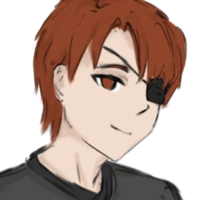
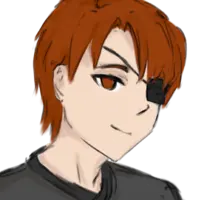
saturation

Changed region(s): [[0.15, 0.0, 0.93, 0.66], [0.51, 0.39, 0.57, 0.45], [0.33, 0.36, 0.36, 0.39]]

diff --git a/script.js b/script.js
@@ -11,10 +11,10 @@ const characters = [
     { imageURL: "images/cara.webp",      name: "Cara",       categories: ["Human", "Female", "Night", "Gang"],           fullName: "Omura Cara", pronunciation: "KA-ruh", rune:"Metamorphosis", quote: "Leave me alone.", runeURL:"images/cara_rune.webp", },
     { imageURL: "images/cassie.webp",    name: "Cassie",     categories: ["Human", "Female", "Night", "Gang"],           fullName: "Cassandra O'Connor", rune:"Tricks & Mirrors" },
     { imageURL: "images/cherry.webp",    name: "Cherry",     categories: ["NonH", "Female", "Night", "LSE"],             fullName: "Cherry Rose</br>❝Frosted Flame❞", species: "Demon (Dream Eater)", ability:"Soporific flames", quote: "So hungry..." },
-    { imageURL: "images/daphne.webp",    name: "Daphne",     categories: ["Human", "Female", "Night", "LSH"],            fullName: "Daphne †", quote: "Miss, you called?" },
+    { imageURL: "images/daphne.webp",    name: "Daphne",     categories: ["Human", "Female", "Night", "LSH", "Pin"],            fullName: "Daphne †", quote: "Miss, you called?" },
     { imageURL: "images/dawn.webp",      name: "Dawn",       categories: ["NonH", "Female", "Night", "LSA"],             fullName: "❝Timeless Embrace❞", species: "Angel" },
     { imageURL: "images/dj.webp",        name: "Dj",         categories: ["Human", "Male", "Dj", "Gang"],                 },
-    { imageURL: "images/dom.webp",       name: "Dom",        categories: ["Human", "Male", "Dj", "Cops"],                fullName: "Dominic Fretelli", rune:"???" },
+    { imageURL: "images/dom.webp",       name: "Dom",        categories: ["Human", "Male", "Dj", "Cops", "Pin"],                fullName: "Dominic Fretelli", rune:"???" },
     { imageURL: "images/dorothea.webp",  name: "Dorothea",   categories: ["Human", "Female", "Night", "Gang"],           fullName: "Dorothea Leconte", rune:"Subliminal desire" },
     { imageURL: "images/ela.webp",       name: "Ela",        categories: ["Human", "Female", "Dj", "Cops"],              fullName: "Elizabeth Grande", rune:"Puppeteer" },
     { imageURL: "images/eleanor.webp",   name: "Eleanor",    categories: ["Human", "Female", "Night", "Others"],         fullName: "Eleanor 'Ellie' Black", rune:"Portals" },
@@ -26,14 +26,14 @@ const characters = [
     { imageURL: "images/jade.webp",      name: "Jade",       categories: ["Human", "Female", "Night", "Others"],         fullName: "Jade Quinn", rune:"Crystalline resonance", quote: "Sure, how can I help?" },
     { imageURL: "images/kaelani.webp",   name: "Kae",        categories: ["NonH", "Female", "Night", "LSE"],             fullName: "Kaelani</br>❝Bibliophile❞", pronunciation: "kay- or ka-eh-LAH-nee", species: "Vuuna", ability:"Shadows", quote: "But satisfaction brought it back, remember? If you're going to use idioms, use the whole quote.", },
     { imageURL: "images/ken.webp",       name: "Ken",        categories: ["Human", "Male", "Night", "Others"],           fullName: "Takeda Kenzo", rune:"Erasure", quote: "Memories are fragile." },
-    { imageURL: "images/kenzie.webp",    name: "Kenzie",     categories: ["Human", "Female", "Night", "Others"],         fullName: "Kenzie 'Zee' Sallie", rune:"Rewrite" },
+    { imageURL: "images/kenzie.webp",    name: "Kenzie",     categories: ["Human", "Female", "Night", "Others", "Pin"],         fullName: "Kenzie 'Zee' Sallie", rune:"Rewrite" },
     { imageURL: "images/kiara.webp",     name: "Kiara",      categories: ["NonH", "Female", "Night", "LSE"],             fullName: "Kiara</br>❝The Ruthless❞", species: "Vesperis", pronunciation: "kee-AR-uh", quote: "Oh, shut your hole! You worthless, pathetic, whining little rat. Is this how you intended to protect your family? I must be doing them a favor." },
-    { imageURL: "images/kiko.webp",      name: "Kiko",       categories: ["Human", "Female", "Night", "Gang", "Others"], fullName: "Tsuro Kiko", rune:"Rewind" },
+    { imageURL: "images/kiko.webp",      name: "Kiko",       categories: ["Human", "Female", "Night", "Gang", "Others", "Pin"], fullName: "Tsuro Kiko", rune:"Rewind" },
     { imageURL: "images/kishi.webp",     name: "Kishi",      categories: ["Human", "Female", "Night", "Gang"],           fullName: "Oseki Kishi 'K'", rune:"Hypnosis", quote: "Sorry, were you talking to me? That's too bad, I don't care." },
     { imageURL: "images/kyra.webp",      name: "Kyra",       categories: ["Human", "Female", "Night", "Gang", "Others"], fullName: "Kawa Kyra (Ishikawa Ami)", rune:"Sweet dreams" },
     { imageURL: "images/lilou.webp",     name: "Lilou",      categories: ["Human", "Female", "Night", "Others"],         rune:"Grafting" },
     { imageURL: "images/lisy.webp",      name: "Lisy",       categories: ["Human", "Female", "Night", "Cops"],           fullName: "Atari Moon", rune:"Blood roses", quote: "Have you lost weight? Oh, nevermind. That dress makes you look nice." },
-    { imageURL: "images/liza.webp",      name: "Liza",       categories: ["Human", "Female", "Dj", "envision"],          fullName: "Liza Goff", rune:"Rhythm sync" },
+    { imageURL: "images/liza.webp",      name: "Liza",       categories: ["Human", "Female", "Dj", "envision", "Pin"],          fullName: "Liza Goff", rune:"Rhythm sync" },
     { imageURL: "images/luna.webp",      name: "Luna",       categories: ["Human", "Female", "Night", "Others"],         fullName: "Luna Selene", species: "Human, cat hybrid via shapeshifting", rune:"Cat", quote: "Meow?" },
     { imageURL: "images/lyra.webp",      name: "Lyra",       categories: ["NonH", "Female", "Night", "LSE"],             fullName: "Lyra Circe</br>❝Graceful Sun❞", species: "Velis", pronunciation: "LIE-rah SIR-see", quote: "Don't think about it, dance with your heart! Nobody's watching." },
     { imageURL: "images/melissa.webp",   name: "Melissa",    categories: ["NonH", "Female", "Night", "LSE"],             fullName: "Melissa Circe</br>❝Swift Death❞", species: "Velis", quote: "Running won't save you." },
@@ -44,19 +44,19 @@ const characters = [
     { imageURL: "images/naiya.webp",     name: "Naiya",      categories: ["Human", "Female", "Night", "Gang"],           fullName: "Naiya Sirah", pronunciation: "NA-yah SIGH-rah", rune:"Iron telekinesis", quote: "Hmm?" },
     { imageURL: "images/night.webp",     name: "Night",      categories: ["NonH", "Female", "Night", "LSH"],             fullName: "Night Wraith (Ito Kimi)", species: "Cursed", ability:"Threads", quote: "No, no, you're right. I truly don't have to kill you. However, you see, I would very much enjoy sucking the life out of you." },
     { imageURL: "images/nyx.webp",       name: "Nyx",        categories: ["NonH", "Female", "Night", "Gang"],            fullName: "Nyx Anthis", species: "Fox hybrid", rune:"Light bending - Size manipulation", quote: "How dare you oppose me, your beautiful, humble Goddess?", runeURL:"images/nyx_rune.webp", },
-    { imageURL: "images/oscar.webp",     name: "Oscar",      categories: ["Human", "Male", "Dj", "Others"],              fullName: "Oscar 'Ozzie' Black", rune:"Voodoo doll" },
+    { imageURL: "images/oscar.webp",     name: "Oscar",      categories: ["Human", "Male", "Dj", "Others", "Pin"],              fullName: "Oscar 'Ozzie' Black", rune:"Voodoo doll" },
     { imageURL: "images/pandora.webp",   name: "Pandora",    categories: ["Human", "Female", "Night", "envision"],       fullName: "CB071", rune:"Toxicity - Energy steal - Blink", quote: "Give up." },
     { imageURL: "images/penny.webp",     name: "Penny",      categories: ["Human", "Female", "Night", "Gang"],           fullName: "Penthesilea Parker", rune:"Faster healing", quote: "Nyx, I said not to- Whatever..." },
     { imageURL: "images/rae.webp",       name: "Rae",        categories: ["Human", "Female", "Dj", "Others"],            fullName: "Fukure Rae", rune:"Tsukuyomi" },
-    { imageURL: "images/riley.webp",     name: "Riley",      categories: ["Human", "Female", "Night", "Others", "Pin"],  fullName: "Riley Jones", rune:"Shapeshifting", runeURL:"images/riley_rune.webp", },
+    { imageURL: "images/riley.webp",     name: "Riley",      categories: ["Human", "Female", "Night", "Others"],         fullName: "Riley Jones", rune:"Shapeshifting", runeURL:"images/riley_rune.webp", quote: "I'm still here." },
     { imageURL: "images/scarlet.webp",   name: "Scarlet",    categories: ["Human", "Female", "Dj", "Cops"],              rune:"Momentum control" },
-    { imageURL: "images/shie.webp",      name: "Shie",       categories: ["Human", "Female", "Night", "Cops"],           fullName: "Kaeshi Shie", pronunciation: "SHE-eh", rune:"Freeze" },
+    { imageURL: "images/shie.webp",      name: "Shie",       categories: ["Human", "Female", "Night", "Cops", "Pin"],           fullName: "Kaeshi Shie", pronunciation: "SHE-eh", rune:"Freeze" },
     { imageURL: "images/skye.webp",      name: "Skye",       categories: ["NonH", "Female", "Night", "LSE"],             fullName: "Skye Lua</br>❝Gleaming Light❞ (Butterfly)", species: "Horror hybrid", ability:"Celestial Protection", quote: "You need not speak your pain for I can read it in your eyes." },
     { imageURL: "images/spectre.webp",   name: "Spectre",    categories: ["Human", "Male", "Dj", "envision"],             },
     { imageURL: "images/summer.webp",    name: "Summer",     categories: ["Human", "Female", "Night", "LSH"],            fullName: "Summer †", quote: "Me? Nah, there's no way I'd be the final girl. More like the one who dies in the prologue." },
     { imageURL: "images/tyler.webp",     name: "Tyler",      categories: ["Human", "Male", "Night", "Others"],           rune:"None", quote: "Gwen..." },
     { imageURL: "images/vanilla.webp",   name: "Vanilla",    categories: ["NonH", "Female", "Night", "Gang", "Others"],  fullName: "Vanilla Wafer or Nilla</br>(Fabularis Ciuem Project Type 4.7)", species: "Android", rune:"None", quote: "What can I help you with, Master?" },
-    { imageURL: "images/wendy.webp",     name: "Wendy",      categories: ["Human", "Female", "Night", "Others"],         fullName: "Wendy Macie Harmon", rune:"Metal manipulation" },
+    { imageURL: "images/wendy.webp",     name: "Wendy",      categories: ["Human", "Female", "Night", "Others", "Pin"],         fullName: "Wendy Macie Harmon", rune:"Metal manipulation" },
     { imageURL: "images/winter.webp",    name: "Winter",     categories: ["Human", "Female", "Dj", "Others"],             },
     { imageURL: "images/redacted.webp",  name: "[Redacted]", categories: ["Human", "Male", "Dj", "Others"],              rune:"???" },
 ];
